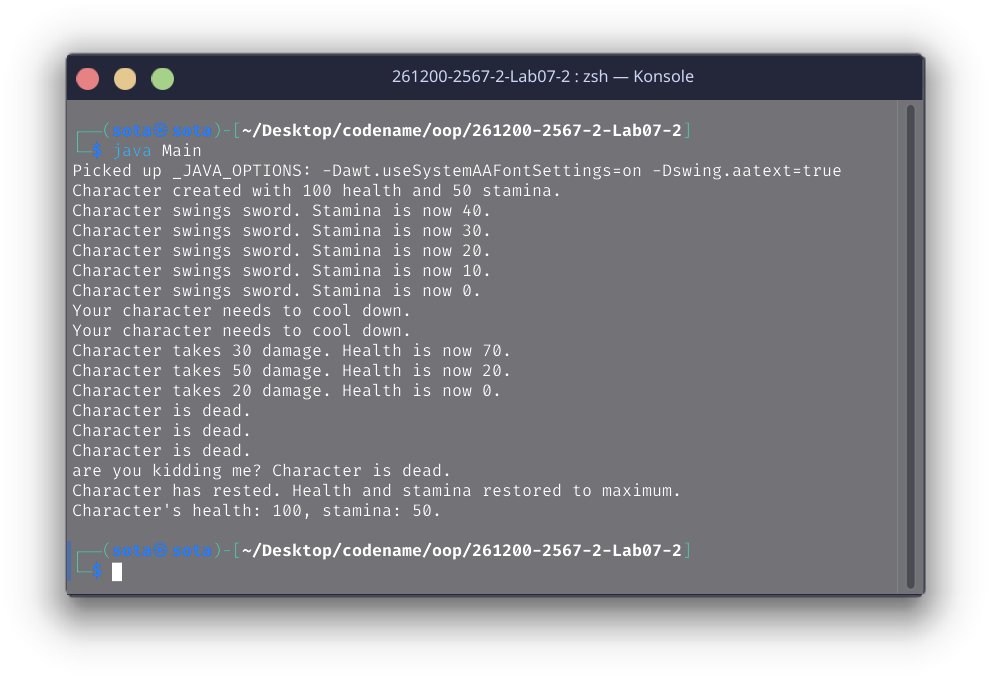
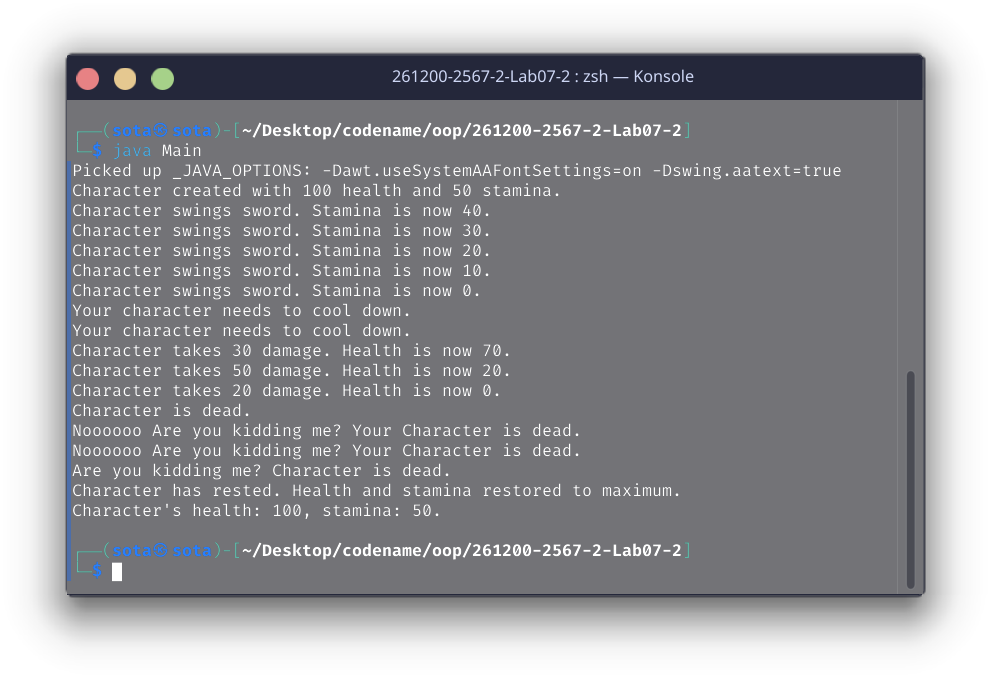
updataJoke

diff --git a/Character.java b/Character.java
@@ -23,7 +23,7 @@ public class Character {
     public void swingSword(){
         int staminaCost = 10;
         if(getHealth() <= 0){
-            System.out.println("are you kidding me? Character is dead.");
+            System.out.println("Are you kidding me? Character is dead.");
         }
         else{
             if(stamina >= staminaCost){
@@ -45,7 +45,7 @@ public class Character {
             }   
         }
         else{
-            System.out.println("Character is dead.");
+            System.out.println("Noooooo Are you kidding me? Your Character is dead.");
         }
     }
 
